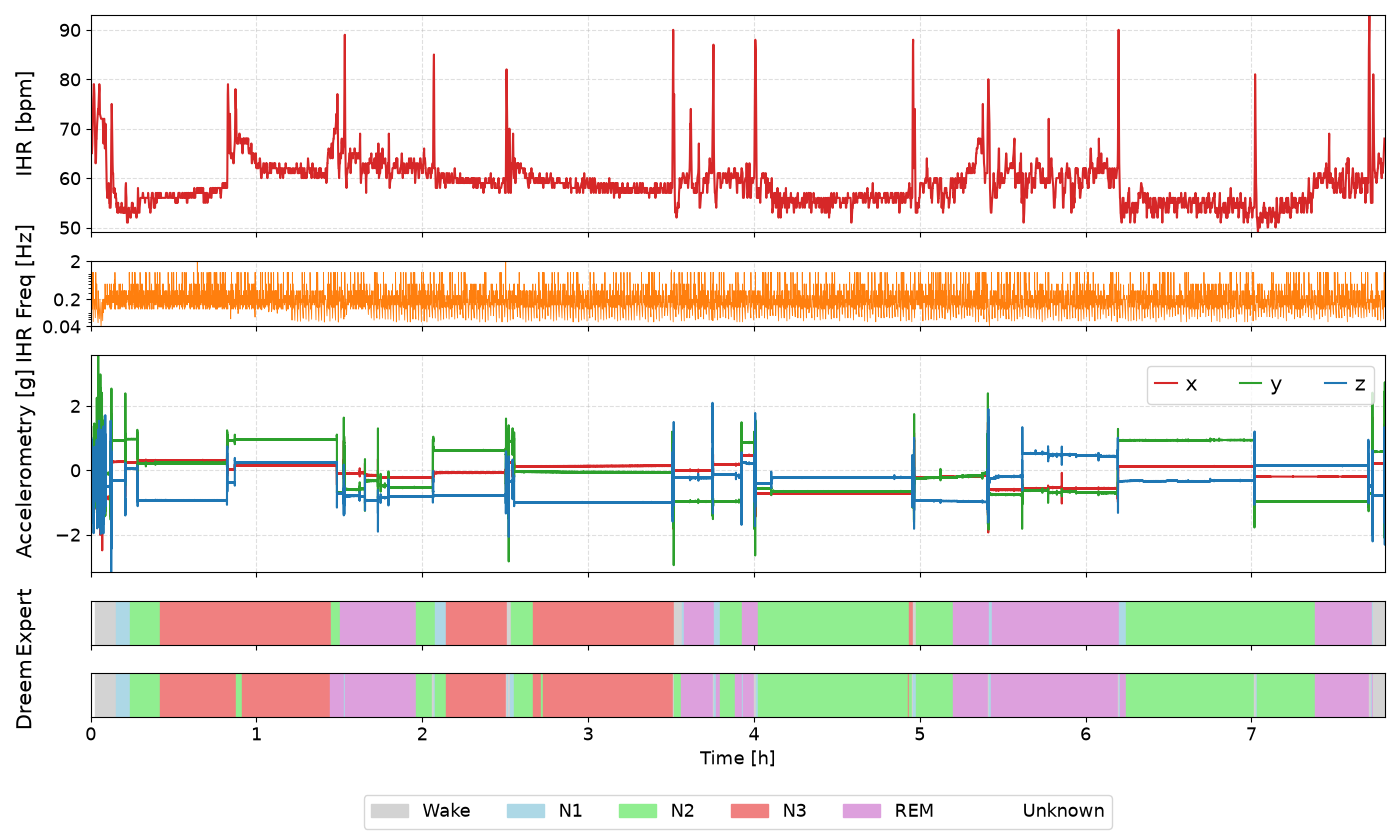
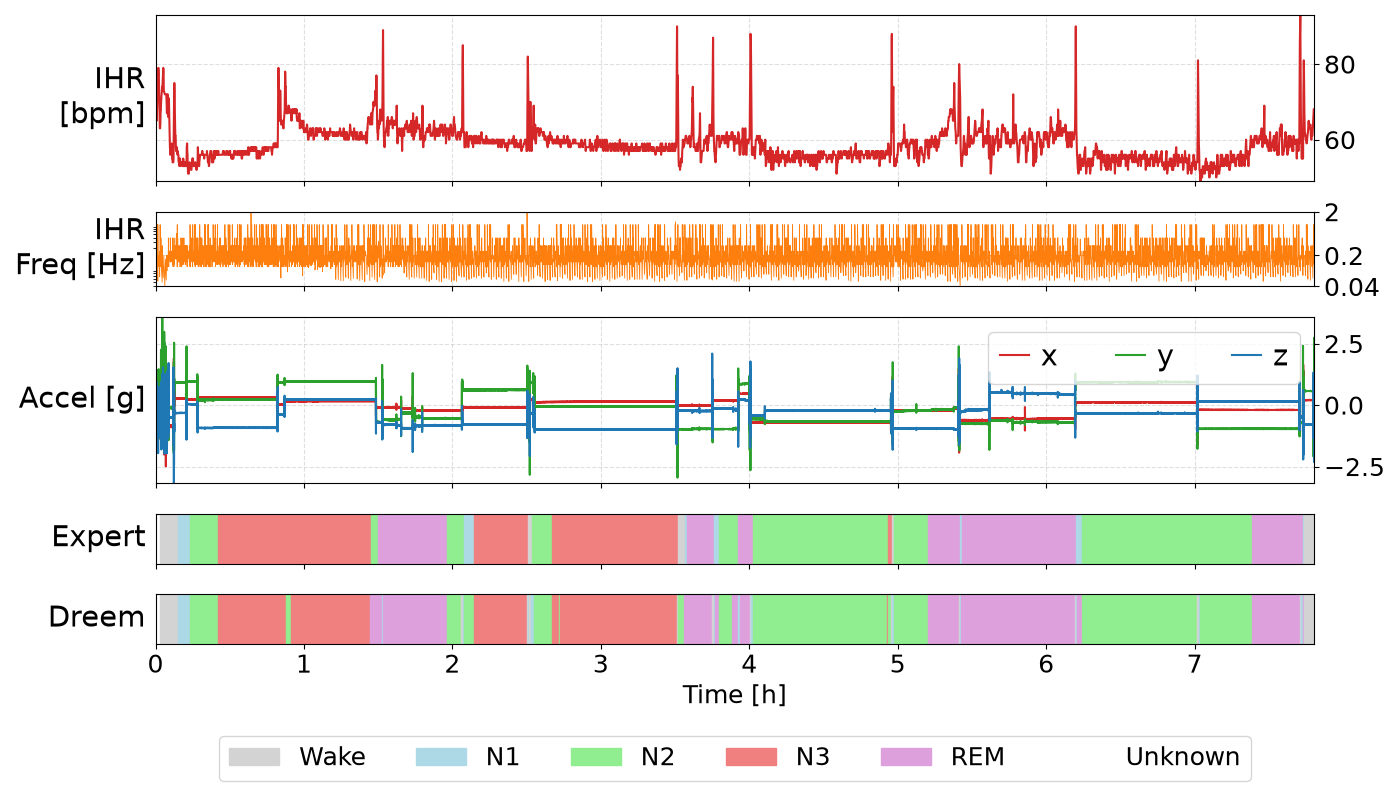
report: intro + recipe de pdflatex + fix de plots de señales

diff --git a/report/main.tex b/report/main.tex
@@ -10,11 +10,12 @@
 \usepackage{textcomp}
 \usepackage{xcolor}
 \usepackage{hyperref}
-\def\BibTeX{{\rm B\kern-.05em{\sc i\kern-.025em b}\kern-.08em
-    T\kern-.1667em\lower.7ex\hbox{E}\kern-.125emX}}
+\usepackage{enumitem}
+\usepackage{siunitx}
+
 \begin{document}
 
-\title{Predicción de Etapas del Sueño sobre señales Fisiológicas con RNNs\\
+\title{Predicción de Etapas del Sueño sobre señales Fisiológicas capturadas con SmartWatch\\
 % {\footnotesize \textsuperscript{*}Note: Sub-titles are not captured for https://ieeexplore.ieee.org  and
 % should not be used}
 }
@@ -43,53 +44,34 @@ sleep staging, recurrent neural networks, heart rate variability, accelerometry,
 
 \section{Introducción}
 
-Frente a la polisomnografía -- costosa y confinada al laboratorio --, los dispositivos \emph{smart-watch} son capaces 
-de registrar IHR (\emph{Instantaneous Heart Rate}) y acelerometría de forma continua y no invasiva, habilitando el 
-monitoreo domiciliario.
+Frente a la polisomnografía --costosa y confinada al laboratorio--, los dispositivos \emph{smart-watch} son capaces de registrar IHR (\emph{Instantaneous Heart Rate}) y acelerometría de forma continua y no invasiva, habilitando el monitoreo domiciliario.
 
-La \emph{estadificación del sueño} (\emph{sleep staging}) --asignar una etapa a cada época de
-$30$\,s de registro, según el estándar clínico AASM-- es central para el diagnóstico de trastornos
-como la apnea o el insomnio, pero hoy depende de la polisomnografía y de la anotación manual de un
-experto, lo que la vuelve cara e incómoda. Lograrla a partir de señales de muñeca abriría la puerta
-a un monitoreo accesible y prolongado en el tiempo.
+La \emph{estadificación del sueño} (\emph{sleep staging}) --asignar una etapa a cada época de $30$\,s de registro, según el estándar clínico AASM-- es central para el diagnóstico de trastornos como la apnea o el insomnio, pero hoy depende de la polisomnografía y de la anotación manual de un experto, lo que la vuelve cara e incómoda. Lograrla a partir de señales de muñeca abriría la puerta a un monitoreo accesible y prolongado en el tiempo.
 
-Abordamos la tarea como un problema de \textbf{clasificación multiclase supervisada}. La entrada de
-nuestro algoritmo es la IHR y la acelerometría triaxial de una época de $30$\,s (o su secuencia a lo
-largo de la noche), y utilizamos modelos de aprendizaje automático --desde un \emph{baseline}
-tabular (XGBoost, MLP) hasta redes sobre la señal cruda (CNN 1D) y modelos secuenciales
-(LSTM/BiLSTM y un híbrido CNN--LSTM)-- para predecir la etapa del sueño
-\{Wake, $N_1$, $N_2$, $N_3$, REM\}. Como referencia se emplean las etiquetas de un experto
-(\emph{ground-truth}) y las del dispositivo Dreem, basado en EEG. El eje del trabajo es comparar
-esta progresión de modelos para cuantificar el aporte del \textbf{contexto temporal inter-época}
---la dependencia entre etapas contiguas-- frente a la clasificación de cada época de forma aislada.
-
-La Fig.~\ref{fig:nights} muestra un ejemplo de la entrada: las señales de IHR y acelerometría de una
-noche completa junto al hipnograma de referencia. Ya se aprecia la estructura cíclica del sueño --la
-IHR desciende y se estabiliza en sueño profundo ($N_3$) y se vuelve más variable en REM, mientras
-que la acelerometría sólo registra actividad en las transiciones a vigilia--, correspondencia que
-hace la tarea abordable a partir de datos de muñeca.
-
-\begin{figure}[H]
-\centering
-\includegraphics[width=\linewidth]{figures/night-overview-0-1.png}
-\caption{Ejemplo de la entrada del algoritmo: señales (IHR y acelerometría) e hipnograma de una
-noche completa (Paciente 00, Noche 1).}
-\label{fig:nights}
-\end{figure} 
+Abordamos la tarea como un problema de \textbf{clasificación multiclase supervisada}. La entrada de nuestro algoritmo es la IHR y la acelerometría triaxial de una época de $30$\,s (o su secuencia a lo largo de la noche), y utilizamos modelos de aprendizaje automático desde un \emph{baseline} tabular (XGBoost, MLP) hasta modelos secuenciales que utilizan la señal cruda (BiLSTM y un híbrido CNN--BiLSTM) para predecir la etapa del sueño. Como referencia se emplean las etiquetas de un experto (\emph{ground-truth}) y una referencia secundaria (y como nuestra competencia) las etiquetas de un dispositivo Dreem Headband, basado en EEG (electroencefalograma). El eje del trabajo es comparar esta progresión de modelos para cuantificar el aporte del \textbf{contexto temporal inter-época} --la dependencia entre etapas contiguas-- frente a la clasificación de cada época de forma aislada.
 
 \section{Conjunto de Datos y Características}
 
-PhysioNet BIDSleep~\cite{bidsleep} recopila señales fisiológicas tales como la frecuencia cardíaca instantánea
-(IHR) y tres ejes de acelerometría medidas con un Apple Watch a lo largo de 253 noches de 47 adultos sanos. Cada 
-lapso de 30 segundos se encuentra etiquetado, por dos fuentes diferentes, como una etapa del sueño:
-\{0:Wake, 1:$N_1$, 2:$N_2$, 3:$N_3$, 4:REM, 5:Unknown\}
 
-El experto define la variable objetivo (Dreem queda como referencia independiente) y se descarta
-la clase \emph{Unknown}. La partición es \textbf{por paciente} —evita \textit{leakage} y mide la
-generalización a sujetos nuevos—: del corpus válido ($\approx$208k épocas), $123\,495$/$37\,566$/$47\,427$
-en \emph{train}/\emph{val}/\emph{test} (29/8/10 pacientes) para los modelos tabulares y $33$/$7$/$7$
-sujetos para los secuenciales.
+PhysioNet BIDSleep~\cite{bidsleep} recopila señales fisiológicas tales como la frecuencia cardíaca instantánea (IHR) y tres ejes de acelerometría medidas con un Apple Watch a lo largo de 253 noches de 47 adultos sanos. Cada lapso de 30 segundos se encuentra etiquetado por dos fuentes diferentes (\emph{expert} y \emph{dreem}) con una etapa del sueño: 
+\begin{enumerate}[start=0]
+    \item \textbf{Wake} (Despierto)
+    \item \textbf{N1} (Sueño Ligero): etapa más superficial y la entrada al sueño. Suele ser la clase más dificil de detectar dado que es breve e inestable.
+    \item \textbf{N2} (Sueño Ligero consolidado): sujeto dormido de forma estable. Es la etapa más frecuente.
+    \item \textbf{N3} (Sueño profundo): el sueño mas reparador. En él cuesta mucho despertar al paciente. Debería mostrar IHR mínimo y cuerpo inmóbil 
+    \item \textbf{REM} (\emph{Rapid Eye Movement}): también llamado ``sueño paradójico''. El EEG se parece al de vigilia pero el paciente está profundamente dormido, involucrando IHR irregular.
+\end{enumerate}
 
+Podemos observar un ejemplo de todos los datos contenidos en una noche en la Figura~\ref{fig:night}.
+
+\begin{figure}[h]
+    \centering
+    \includegraphics[width=\linewidth]{figures/night-overview-0-1.png}
+    \caption{Ejemplo de la entrada del algoritmo: señales (IHR y acelerometría) e hipnograma de una noche completa (Paciente 00, Noche 1).}
+    \label{fig:night}
+\end{figure} 
+
+A la hora de particionar el conjunto para el entrenamiento se realiza \textbf{por paciente} evitando así \textit{leakage} y midiendo la generalización a sujetos nuevos. 
 Se emplean dos representaciones: una \textbf{tabular} de $122$ \textit{features} por época y la
 \textbf{señal cruda} $150\times4$ en secuencias por noche, ambas estandarizadas con estadísticos de
 \emph{train}; los modelos densos imputan a la mediana los \texttt{NaN} de borde. El IHR se muestrea a
@@ -180,10 +162,10 @@ concentran la mayor parte de las épocas, seguidas de $N_3$ ($18.5\%$) y Wake ($
 que $N_1$ es marginal ($7.1\%$). Este desbalance justifica evaluar con $F1_{Macro}$, que pondera
 cada clase por igual, y compensar la frecuencia de clase durante el entrenamiento.
 
-\begin{figure}[H]
+\begin{figure}[h]
 \centering
-\includegraphics[width=1.1\linewidth]{figures/crudavsprocesada1.png}
-\caption{}
+\includegraphics[width=\linewidth]{figures/raw-vs-clean-20-1.png}
+\caption{Ejemplo de procesamiento de una noche (Paciente 20, noche 1). La ventana válida (fondo verde) queda delimitada por el final de la continuidad de la acelerometría (IHR continúa) hasta las 7.94hs conservando 949/1282 épocas.}
 \label{fig:problematic}
 \end{figure}
 
@@ -195,13 +177,6 @@ la ventana válida (verde) conserva el tramo aprovechable mientras se recorta la
 acelerometría se interrumpe y aparecen \textit{gaps} de señal (rojo), y el hipnograma procesado descarta
 esas épocas del final.
 \vspace{-1.2em}
-\begin{figure}[H]
-\centering
-\includegraphics[width=\linewidth]{figures/label-confusion-matrix.png}
-\caption{Matriz de confusión experto vs.\ Dreem; el desacuerdo se concentra en etapas adyacentes.}
-\label{fig:cm-expert-dreem}
-\end{figure}
-\vspace{-1em}
 
 El acuerdo entre las dos fuentes de etiquetado (Ec.~\ref{eq:cohen-kappa}) fija el techo de la
 tarea: $\kappa = 0.74$ global, máximo en $N_3$ ($0.90$) y REM ($0.85$) y mínimo en $N_1$ ($0.13$),
@@ -232,17 +207,15 @@ aunque lejos del techo humano ($\kappa = 0.74$); los errores se concentran entre
 \caption{Rendimiento en test (5 clases) frente al etiquetado del experto.}
 \label{tab:resultados}
 \centering
-\begin{tabular}{lcc}
+\begin{tabular}{lccc}
 \hline
-\textbf{Modelo} & \textbf{$F1_{Macro}$} & \textbf{Cohen's $\kappa$} \\
+\textbf{Modelo} & \textbf{$F1_{acro}$} & \textbf{Cohen's $\kappa$} & \textbf{Accuracy} \\
 \hline
-Dreem Label & --- & 0.74 \\
-XGBoost(features) & 0.4707 & 0.3776 \\
-XGBoost(embeddings) & 0.3971 & 0.2867 \\
-XGBoost(features+embeddings) & 0.4686 & 0.3762 \\
-MLP(features) & & \\
-LSTM(Identity) & 0.559 & 0.443\\
-LSTM(CNN1d) & & \\
+Dreem Label & --- & 0.74 &  -- \\
+XGBoost & 0.4707 & 0.3776 & \\
+MLP & & \\
+BiLSTM & 0.559 & 0.443\\
+Híbrido & & \\
 \hline
 \end{tabular}
 \end{table}

diff --git a/src/plots.py b/src/plots.py
@@ -40,8 +40,8 @@ def _draw_night_overview(night_data: pd.DataFrame, fontsize_scale: float = 1.0):
     stage_legend_fs = 12 * fontsize_scale
 
     # ejes: IHR, frecuencia instantánea del IHR (más bajo), acelerometría, expert, dreem
-    fig, ax = plt.subplots(5, 1, figsize=(14, 8.4), sharex=True,
-                           gridspec_kw={'height_ratios': [3, 0.9, 3, 0.6, 0.6]})
+    fig, ax = plt.subplots(5, 1, figsize=(14, 8), sharex=True,
+                           gridspec_kw={'height_ratios': [2, 0.9, 2, 0.6, 0.6]})
 
     # eje x en horas, comenzando desde 0
     t_min = min(hr['Timestamp'].min(), motion['Timestamp'].min())
@@ -67,12 +67,13 @@ def _draw_night_overview(night_data: pd.DataFrame, fontsize_scale: float = 1.0):
     ax[2].plot(motion_hours, motion['y'], label='y', color='tab:green')
     ax[2].plot(motion_hours, motion['z'], label='z', color='tab:blue')
 
-    ax[0].set_ylabel('IHR [bpm]', fontsize=label_fs)
-    ax[1].set_ylabel('IHR Freq [Hz]', fontsize=label_fs)
-    ax[2].set_ylabel('Accelerometry [g]', fontsize=label_fs)
-    ax[0].tick_params(axis='both', labelsize=tick_fs)
-    ax[1].tick_params(axis='both', labelsize=tick_fs)
-    ax[2].tick_params(axis='both', labelsize=tick_fs)
+    ax[0].set_ylabel('IHR\n[bpm]', fontsize=label_fs, rotation=0, ha='right', va='center', labelpad=2)
+    ax[1].set_ylabel('IHR\nFreq [Hz]', fontsize=label_fs, rotation=0, ha='right', va='center', labelpad=2)
+    ax[2].set_ylabel('Accel [g]', fontsize=label_fs, rotation=0, ha='right', va='center', labelpad=2)
+    # yticks del lado derecho; el ylabel queda pegado al eje (spine izquierda)
+    ax[0].tick_params(axis='both', labelsize=tick_fs, left=False, labelleft=False, right=True, labelright=True)
+    ax[1].tick_params(axis='both', labelsize=tick_fs, left=False, labelleft=False, right=True, labelright=True)
+    ax[2].tick_params(axis='both', labelsize=tick_fs, left=False, labelleft=False, right=True, labelright=True)
 
     epoch_len = 30  # segundos
     # recStart en hora local (America/New_York); hr/motion en Unix/UTC
@@ -90,11 +91,11 @@ def _draw_night_overview(night_data: pd.DataFrame, fontsize_scale: float = 1.0):
 
     ax[3].set_yticks([])
     ax[3].tick_params(axis='both', labelsize=tick_fs)
-    ax[3].set_ylabel('Expert', fontsize=label_fs)
+    ax[3].set_ylabel('Expert', fontsize=label_fs, rotation=0, ha='right', va='center', labelpad=2)
 
     ax[4].set_yticks([])
     ax[4].tick_params(axis='both', labelsize=tick_fs)
-    ax[4].set_ylabel('Dreem', fontsize=label_fs)
+    ax[4].set_ylabel('Dreem', fontsize=label_fs, rotation=0, ha='right', va='center', labelpad=2)
 
     legend_patches = [mpatches.Patch(color=c, label=STAGE_NAMES[s]) for s, c in STAGE_COLORS.items()]
     ax[4].legend(handles=legend_patches, loc='upper center', bbox_to_anchor=(0.5, -1.6), ncol=6, fontsize=stage_legend_fs)
@@ -118,7 +119,7 @@ def _draw_night_overview(night_data: pd.DataFrame, fontsize_scale: float = 1.0):
     return fig
 
 def night_overview(night_data: pd.DataFrame, patient_nr: int = None, night_nr: int = None):
-    save_fig = _draw_night_overview(night_data, fontsize_scale=1.1)
+    save_fig = _draw_night_overview(night_data, fontsize_scale=1.5)
     file_name = f'night-overview-{patient_nr}-{night_nr}' if (patient_nr is not None and night_nr is not None) else 'night-overview'
     save_fig.savefig(FIG_DIR / f'{file_name}.png')
     plt.close(save_fig)
@@ -216,7 +217,7 @@ def night_prediction_overview(patient: int, night: int, predictions: dict, save:
         fig.savefig(FIG_DIR / f'night-predictions-{patient}-{night}.png', dpi=200, bbox_inches='tight')
     plt.show()
 
-def _raw_vs_clean_overview(patient: int, night: int, fontsize_scale: float = 1.0):
+def _raw_vs_clean_overview(patient: int, night: int, fontsize_scale: float = 1.0, title: bool = True):
     '''
     Overview estilo night_overview que muestra una noche CRUDA y el efecto del procesamiento:
     IHR y acelerometría con la ventana válida sombreada (verde) y lo removido en gris, más tres
@@ -247,8 +248,8 @@ def _raw_vs_clean_overview(patient: int, night: int, fontsize_scale: float = 1.0
     tick_fs = 11 * fontsize_scale
     legend_fs = 11 * fontsize_scale
 
-    fig, ax = plt.subplots(5, 1, figsize=(14, 8), sharex=True,
-                           gridspec_kw={'height_ratios': [3, 3, 0.6, 0.6, 0.6]})
+    fig, ax = plt.subplots(5, 1, figsize=(14, 7), sharex=True,
+                           gridspec_kw={'height_ratios': [2.2, 2.2, 0.6, 0.6, 0.6]})
 
     t_min = min(float(hr['Timestamp'].min()), float(motion['Timestamp'].min()))
     # la vista se limita al alcance real de la noche (IHR / etiquetas): motion suele traer
@@ -259,14 +260,16 @@ def _raw_vs_clean_overview(patient: int, night: int, fontsize_scale: float = 1.0
     vs_h, ve_h, end_h = to_h(vs), to_h(ve), to_h(t_max)
 
     ax[0].plot(to_h(hr['Timestamp']), hr['hr'], color='tab:red')
-    ax[0].set_ylabel('IHR [bpm]', fontsize=label_fs)
+    ax[0].set_ylabel('IHR [bpm]', fontsize=label_fs, rotation=0, ha='right', va='center', labelpad=8)
+    ax[0].set_yticks([])
     hr_view = hr[to_h(hr['Timestamp']).between(0, to_h(t_max))]
     if len(hr_view):
         ax[0].set_ylim(float(hr_view['hr'].min()), float(hr_view['hr'].max()))
     ax[1].plot(to_h(motion['Timestamp']), motion['x'], label='x', color='tab:red')
     ax[1].plot(to_h(motion['Timestamp']), motion['y'], label='y', color='tab:green')
     ax[1].plot(to_h(motion['Timestamp']), motion['z'], label='z', color='tab:blue')
-    ax[1].set_ylabel('Accel [g]', fontsize=label_fs)
+    ax[1].set_ylabel('Accel [g]', fontsize=label_fs, rotation=0, ha='right', va='center', labelpad=8)
+    ax[1].set_yticks([])
     # límites Y según lo que cae dentro de la vista (evita que las muestras espurias los estiren)
     mo_view = motion[to_h(motion['Timestamp']).between(0, end_h)]
     if len(mo_view):
@@ -312,11 +315,11 @@ def _raw_vs_clean_overview(patient: int, night: int, fontsize_scale: float = 1.0
         a.tick_params(axis='both', labelsize=tick_fs)
 
     _band(ax[2], expert)
-    ax[2].set_ylabel('Expert\n(cruda)', fontsize=label_fs, rotation=0, ha='right', va='center', labelpad=8)
+    ax[2].set_ylabel('Expert\n(raw)', fontsize=label_fs, rotation=0, ha='right', va='center', labelpad=8)
     _band(ax[3], dreem)
-    ax[3].set_ylabel('Dreem\n(cruda)', fontsize=label_fs, rotation=0, ha='right', va='center', labelpad=8)
+    ax[3].set_ylabel('Dreem\n(raw)', fontsize=label_fs, rotation=0, ha='right', va='center', labelpad=8)
     _band(ax[4], expert, kept)
-    ax[4].set_ylabel('Expert\n(procesada)', fontsize=label_fs, rotation=0, ha='right', va='center', labelpad=8)
+    ax[4].set_ylabel('Expert\n(proccesed)', fontsize=label_fs, rotation=0, ha='right', va='center', labelpad=8)
 
     legend_patches = [mpatches.Patch(color=c, label=STAGE_NAMES[s]) for s, c in STAGE_COLORS.items()]
     legend_patches.append(mpatches.Patch(facecolor='red', alpha=0.35, label='gap señal (Δt>60s)'))
@@ -327,11 +330,12 @@ def _raw_vs_clean_overview(patient: int, night: int, fontsize_scale: float = 1.0
     fig.align_ylabels(ax)
     plt.tight_layout()
 
-    n_kept = int(kept.sum())
-    estado = 'DESCARTADA' if discarded else f'{n_kept}/{n_ep} épocas conservadas'
-    fig.suptitle(f'Cruda vs procesada — P{patient:02d} N{night}  ·  ventana '
-                 f'[{vs_h:.2f}, {ve_h:.2f}] h  ·  {estado}', fontsize=14)
-    fig.tight_layout()
+    if title:
+        n_kept = int(kept.sum())
+        estado = 'DESCARTADA' if discarded else f'{n_kept}/{n_ep} épocas conservadas'
+        fig.suptitle(f'Cruda vs procesada — P{patient:02d} N{night}  ·  ventana '
+                     f'[{vs_h:.2f}, {ve_h:.2f}] h  ·  {estado}', fontsize=14)
+        fig.tight_layout()
     return fig
 
 def raw_vs_clean_overview(patient: int, night: int, save: bool = False):
@@ -340,14 +344,17 @@ def raw_vs_clean_overview(patient: int, night: int, save: bool = False):
     filtro por época): night_overview con la ventana sombreada y el hipnograma Expert antes
     (cruda) y después (procesada). Ej.: raw_vs_clean_overview(20, 1).
     '''
-    fig = _raw_vs_clean_overview(patient, night, fontsize_scale=1.0)
     if save:
-        fig.savefig(FIG_DIR / f'raw-vs-clean-{patient}-{night}.png', dpi=200, bbox_inches='tight')
+        save_fig = _raw_vs_clean_overview(patient, night, fontsize_scale=1.3, title=False)
+        save_fig.savefig(FIG_DIR / f'raw-vs-clean-{patient}-{night}.png', dpi=200, bbox_inches='tight')
+        plt.close(save_fig)
+
+    _raw_vs_clean_overview(patient, night, fontsize_scale=1.3)
     plt.show()
 
 def _draw_class_distribution(distribution: dict, fontsize_scale: float = 1.0):
     label_fs = 12 * fontsize_scale
-    tick_fs = 11 * fontsize_scale
+    tick_fs = 0 * fontsize_scale
     legend_fs = 11 * fontsize_scale
 
     expert_pct = 100 * distribution['expert'] / distribution['expert'].sum()